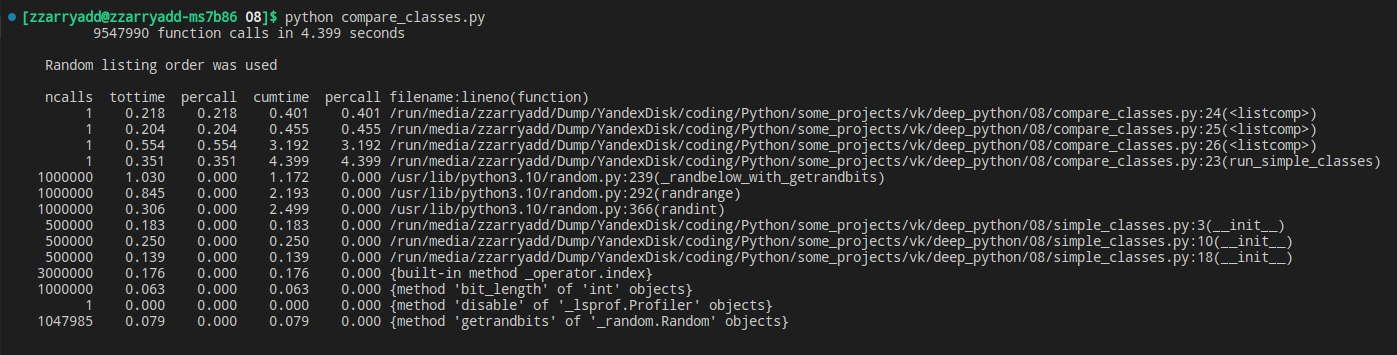
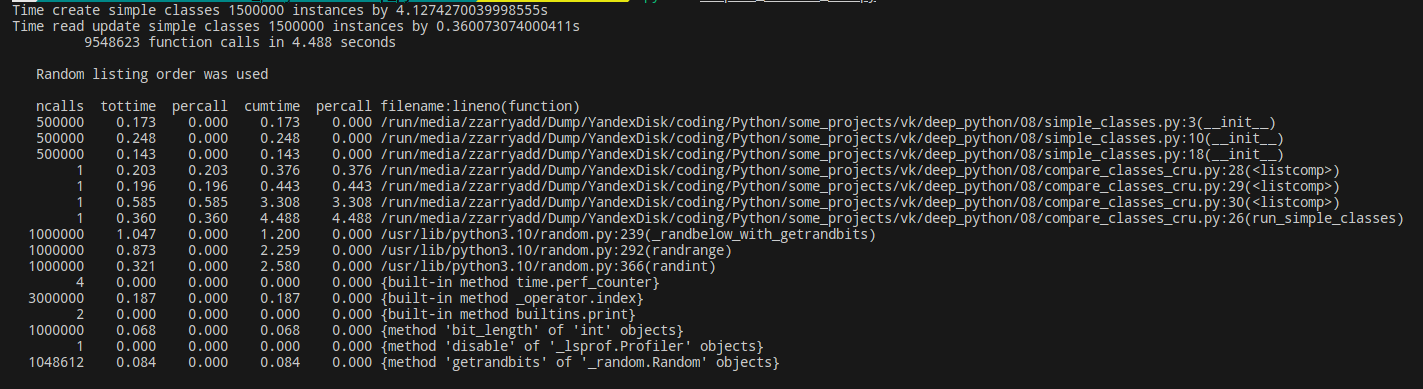
Fix 7 and 8 hw

diff --git a/08/compare_classes_cru.py b/08/compare_classes_cru.py
@@ -1,5 +1,6 @@
 import cProfile
 import pstats
+import time
 from random import randint
 
 from simple_classes import (
@@ -23,6 +24,7 @@ N = 500_000
 
 
 def run_simple_classes(count_run):
+    start_time_create = time.perf_counter()
     cpus = [SimpleCPU(8, 3.2) for _ in range(count_run)]
     kits_of_ram = [SimpleKitRAM(4, 3.2, 8) for _ in range(count_run)]
     motherboards = [
@@ -33,6 +35,13 @@ def run_simple_classes(count_run):
         )
         for _ in range(count_run)
     ]
+    end_time_create = time.perf_counter()
+    total_create = end_time_create-start_time_create
+    print(
+        f"Time create simple classes {count_run*3} "
+        f"instances by {total_create}s"
+    )
+    start_time_read_update = time.perf_counter()
     for cpu in cpus:
         cpu.base_frequency += 1.0
         cpu.count_cores = 32
@@ -44,9 +53,16 @@ def run_simple_classes(count_run):
     for motherboard in motherboards:
         motherboard.count_ram_slots *= 2
         motherboard.cpu.count_cores *= 2
+    end_time_read_update = time.perf_counter()
+    total_read_update = end_time_read_update-start_time_read_update
+    print(
+        f"Time read update simple classes {count_run*3} "
+        f"instances by {total_read_update}s"
+    )
 
 
 def run_slots_classes(count_run):
+    start_time_create = time.perf_counter()
     cpus = [SlotsCPU(8, 3.2) for _ in range(count_run)]
     kits_of_ram = [SlotsKitRAM(4, 3.2, 8) for _ in range(count_run)]
     motherboards = [
@@ -57,6 +73,13 @@ def run_slots_classes(count_run):
         )
         for _ in range(count_run)
     ]
+    end_time_create = time.perf_counter()
+    total_create = end_time_create-start_time_create
+    print(
+        f"Time create classes with slots {count_run*3} "
+        f"instances by {total_create}s"
+    )
+    start_time_read_update = time.perf_counter()
     for cpu in cpus:
         cpu.base_frequency += 1.0
         cpu.count_cores = 32
@@ -68,9 +91,16 @@ def run_slots_classes(count_run):
     for motherboard in motherboards:
         motherboard.count_ram_slots *= 2
         motherboard.cpu.count_cores *= 2
+    end_time_read_update = time.perf_counter()
+    total_read_update = end_time_read_update-start_time_read_update
+    print(
+        f"Time read update classes with slots {count_run*3} "
+        f"instances by {total_read_update}s"
+    )
 
 
 def run_weakref_classes(count_run):
+    start_time_create = time.perf_counter()
     cpus = [WeakrefCPU(8, 3.2) for _ in range(count_run)]
     kits_of_ram = [WeakrefKitRAM(4, 3.2, 8) for _ in range(count_run)]
     motherboards = [
@@ -81,6 +111,13 @@ def run_weakref_classes(count_run):
         )
         for _ in range(count_run)
     ]
+    end_time_create = time.perf_counter()
+    total_create = end_time_create-start_time_create
+    print(
+        f"Time create classes with weakref {count_run*3} "
+        f"instances by {total_create}s"
+    )
+    start_time_read_update = time.perf_counter()
     for cpu in cpus:
         cpu.base_frequency += 1.0
         cpu.count_cores = 32
@@ -92,6 +129,12 @@ def run_weakref_classes(count_run):
     for motherboard in motherboards:
         motherboard.count_ram_slots *= 2
         motherboard.cpu().count_cores *= 2
+    end_time_read_update = time.perf_counter()
+    total_read_update = end_time_read_update-start_time_read_update
+    print(
+        f"Time read update classes with weakref {count_run*3} "
+        f"instances by {total_read_update}s"
+    )
 
 
 if __name__ == "__main__":

diff --git a/exam/exam_task.py b/exam/exam_task.py
@@ -1,0 +1,61 @@
+import time
+from typing import Any, Callable
+
+
+class FuncWrapper:
+    def __init__(self, func: Callable, count_last_calls: int) -> None:
+        self.func = func
+        self.nice_index = (-1) * count_last_calls
+        self.count_last_calls = count_last_calls
+        self.calls = []
+
+    def print_mean(self) -> None:
+        runs = self.calls[self.nice_index:]
+        print(
+            f"Среднее по последним запускам {self.count_last_calls} "
+            f"запускам: {sum(runs) / len(runs)}"
+        )
+
+    def __call__(self, *args, **kwargs) -> Any:
+        start_time = time.time()
+        result = self.func(*args, **kwargs)
+        end_time = time.time()
+        self.calls.append(end_time-start_time)
+        self.print_mean()
+        return result
+
+
+def mean_deco(count_last_calls: int):
+    def _wrapper(func: Callable) -> FuncWrapper:
+        return FuncWrapper(func, count_last_calls)
+    return _wrapper
+
+
+@mean_deco(10)
+def foo(arg1):
+    return 10
+
+
+@mean_deco(2)
+def boo(a, b):
+    return a + b
+
+
+for _ in range(100):
+    foo("Walter")  # при каждом вызове выводится среднее по k=10 последним вызовам
+
+# 1 Типы данных в Python, изменяемые/неизменяемые, сложности основных операций контейнерных типов.
+# изменяемые - list, dict, set, user define
+# не изменяемые - int, bool, str, tuple, frozenset, complex
+
+# 2  Потоки, GIL, особенности использования потоков для различных задач
+# Global Interpriter lock. из-за того, что в py object есть поле,
+# которое подсчитывает количество ссылок на данный участок в памяти.
+# с cpu-bound задачами - в лучшем случае - время такое же
+# io-bound - gil отпускает поток и можно добиться прироста производительности
+
+# 3. Написать декоратор, который считает и выводит среднее время выполнения
+# последних k вызовов исходной функции.
+# k задается через параметр декоратора.
+# После каждого вызова задекорированной функции должно выводиться среднее по
+# k последним вызовам.

diff --git a/08/decorator.py b/08/decorator.py
@@ -28,14 +28,14 @@ class ProfiledFunction:
 
     def print_stat(self) -> None:
         print(f"Func {self.func.__name__}")
-        total_tt = sum([run.total_tt for run in self.runs])
+        total_tt = sum(run.total_tt for run in self.runs)
         print(f"Total time: {total_tt}")
         func_profiles = [run.func_profiles[self.func_name] for run in self.runs]
-        tottime = sum([run.tottime for run in func_profiles])
-        percall_tottime = sum([run.percall_tottime for run in func_profiles])
-        cumtime = sum([run.cumtime for run in func_profiles])
-        percall_cumtime = sum([run.percall_cumtime for run in func_profiles])
-        file_name = list(set([run.file_name for run in func_profiles]))[0]
+        tottime = sum(run.tottime for run in func_profiles)
+        percall_tottime = sum(run.percall_tottime for run in func_profiles)
+        cumtime = sum(run.cumtime for run in func_profiles)
+        percall_cumtime = sum(run.percall_cumtime for run in func_profiles)
+        file_name = list(set(run.file_name for run in func_profiles))[0]
         print(
             FUNC_EXECUTE.format(
                 func_name=self.func_name,

diff --git a/07/test_fetcher.py b/07/test_fetcher.py
@@ -1,9 +1,16 @@
 import asyncio
 import os
+from collections import Counter
 
+import aiohttp
 import pytest
+from aioresponses import aioresponses
 
-from fetcher import server_starter, worker_task
+from fetcher import (
+    server_starter,
+    worker_task,
+    handle_url,
+)
 
 
 @pytest.mark.asyncio
@@ -112,3 +119,18 @@ async def test_worker(mocker, tmpdir, capsys):
         ]
     )
     assert captured.out.replace("\n", "") == result
+
+
+@pytest.mark.asyncio
+async def test_handle_url():
+    response = "Some return message, from internet"
+    url = "http://example.com"
+    most_common = 5
+    with aioresponses() as mocked:
+        mocked.get(url, status=200, body=response)
+        session = aiohttp.ClientSession()
+        result = await handle_url(url, session, most_common)
+        response = response.split()
+        final_result = dict(Counter(response).most_common(most_common))
+        await session.close()
+        assert final_result == result

diff --git a/08/RESULTS.md b/08/RESULTS.md
@@ -10,13 +10,25 @@ python compare_classes_cru.py
 
 ### Прогон классов с обычными атрибутами:
 
+Время создания классов с обычными атрибутами в размере 1500000 объектов составляет 4.1274270039998555 сек.
+
+Время чтения/обновления атрибутов класса с обычными атрибутами в размере 1500000 объектов составляет 0.360073074000411 сек.
+
 ![Обычные атрибуты](screenshots/simple_classes_cru.png)
 
 ### Прогон классов со слотами:
 
+Время создания классов со слотами в размере 1500000 объектов составляет 3.5146337989999665 сек.
+
+Время чтения/обновления атрибутов класса со слотами в размере 1500000 объектов составляет 0.30897875500022565 сек.
+
 ![Слоты](screenshots/slots_classes_cru.png)
 
 ### Прогон классов со слабыми ссылками:
+
+Время создания классов со слабыми ссылками в размере 1500000 объектов составляет 4.51628472099992 сек.
+
+Время чтения/обновления атрибутов класса со слабыми ссылками в размере 1500000 объектов составляет 0.37483583600032944 сек.
 
 ![Слабые ссылки](screenshots/weakref_classes_cru.png)
 
